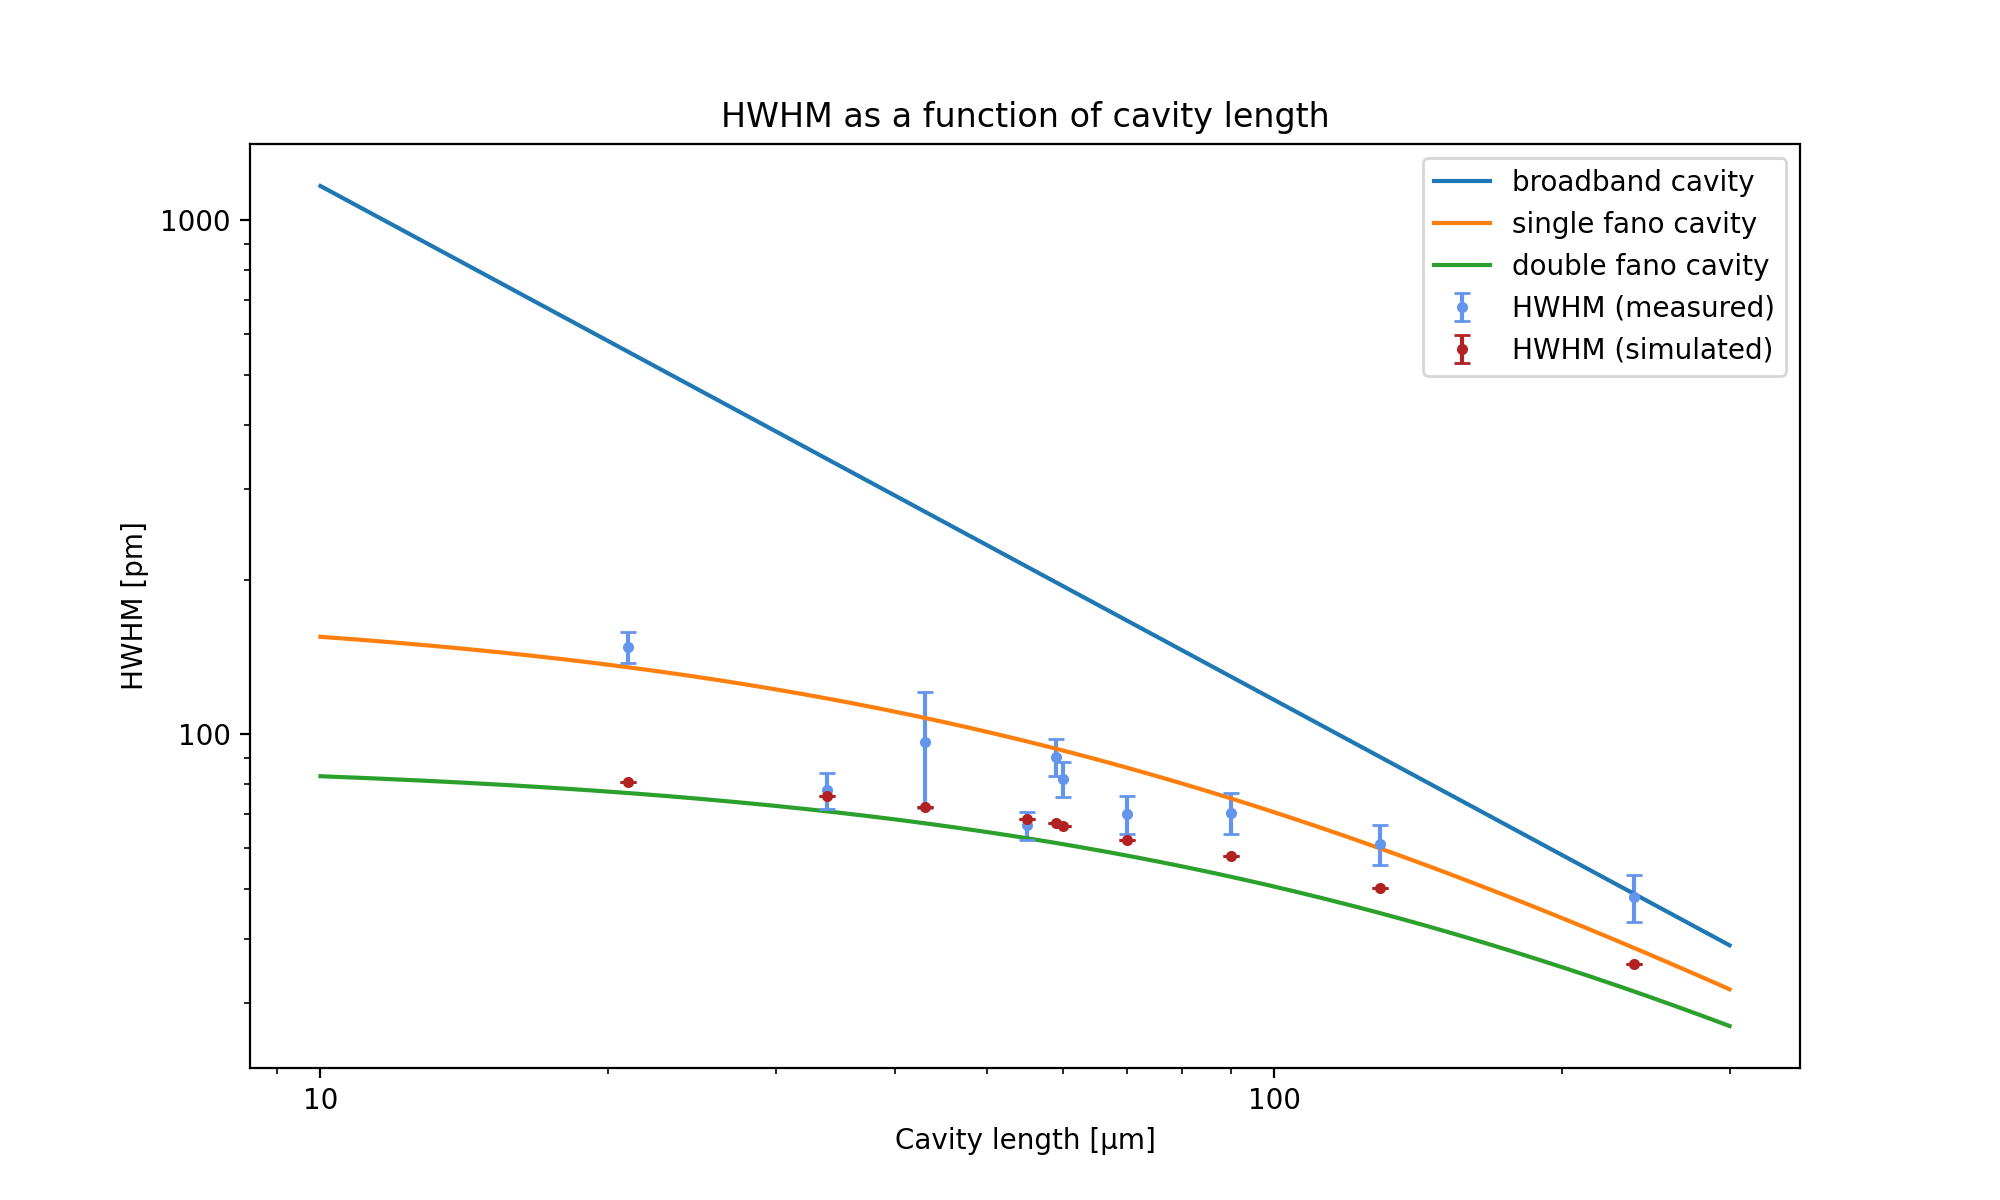
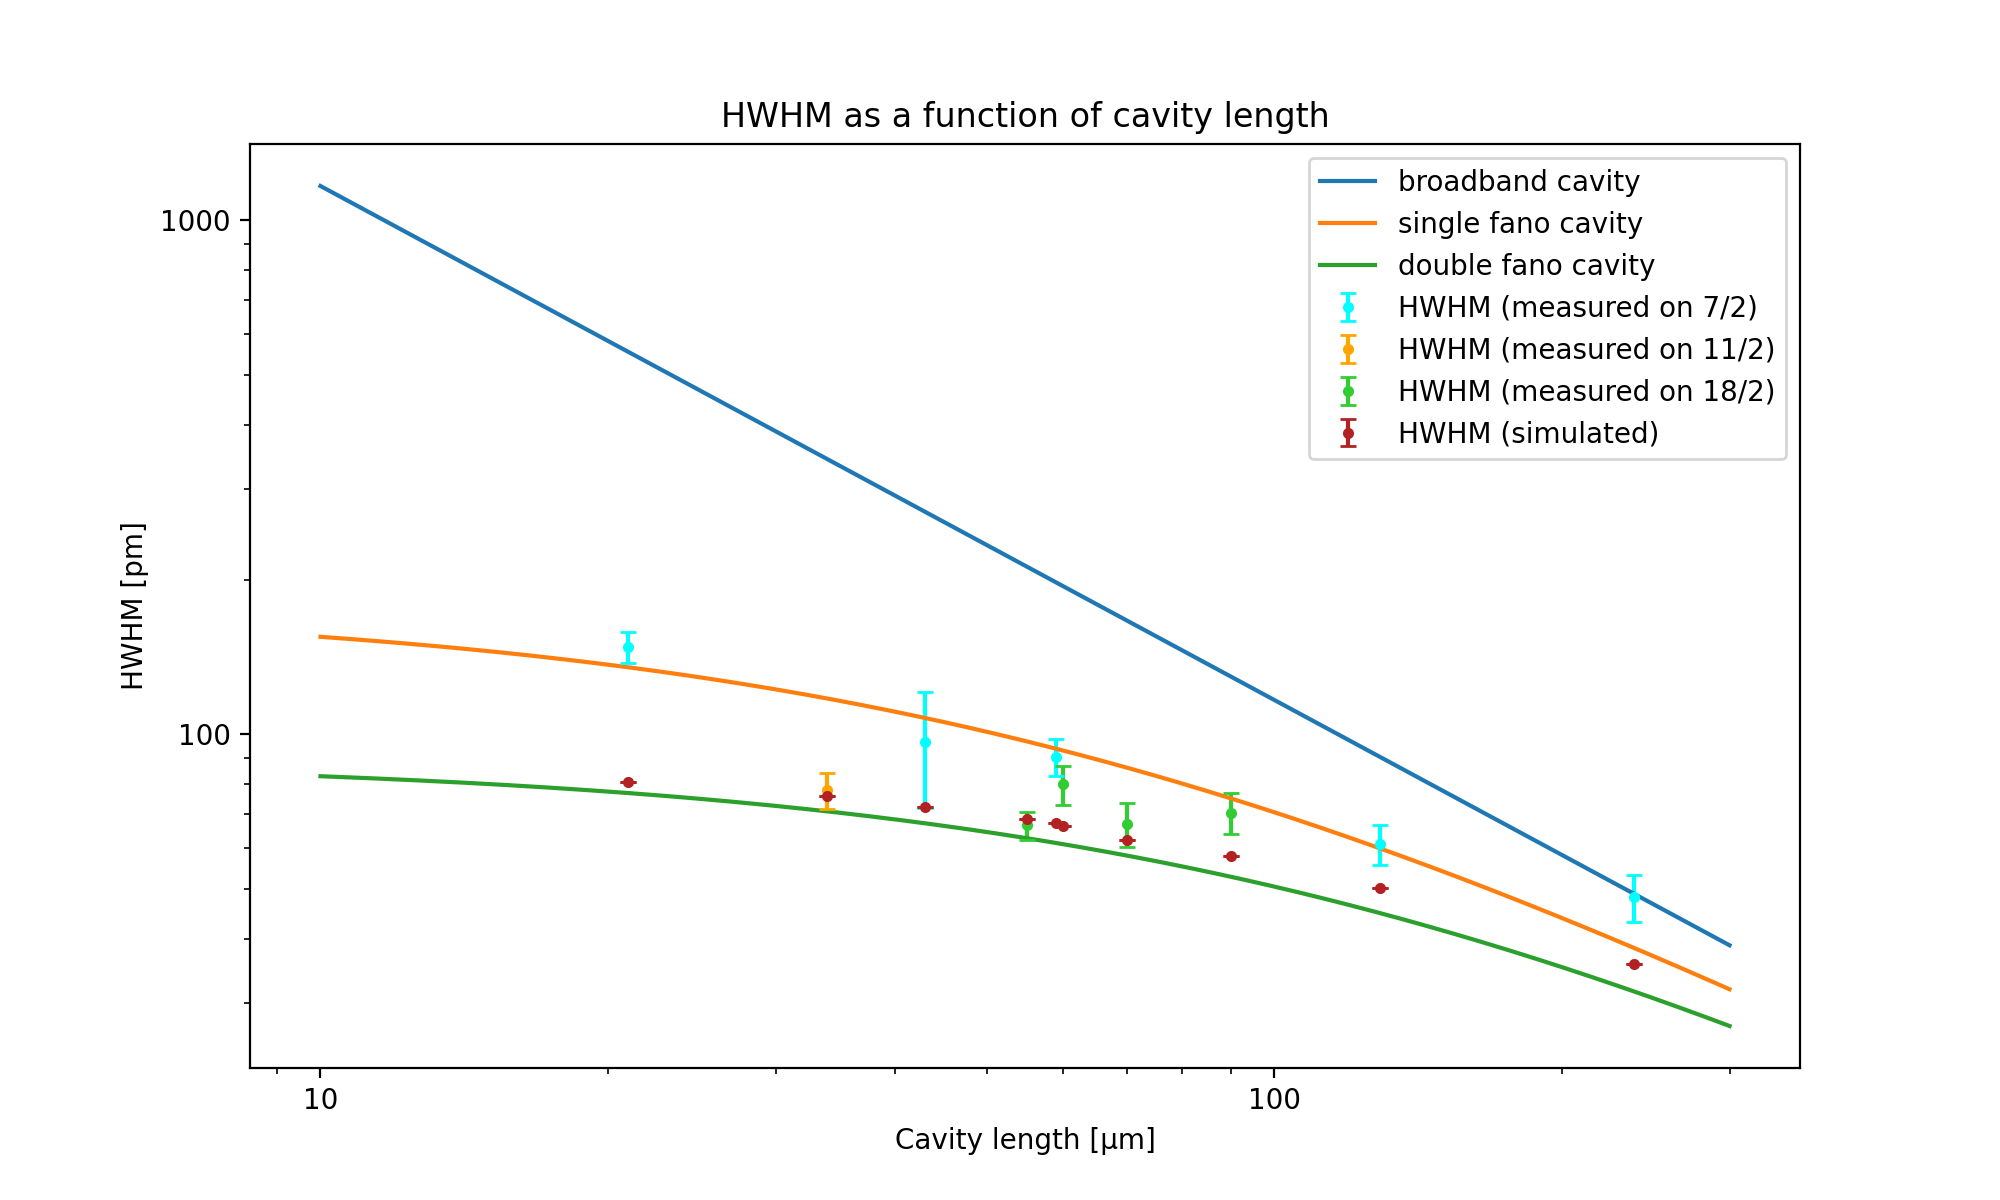
-

diff --git a/cavity_linewidth.py b/cavity_linewidth.py
@@ -52,7 +52,6 @@ M5 = fano("/Users/mikkelodeon/optomechanics/400um gratings/Data/M5/400_M5 trans.
 
 λ_asymmetry_1 = λ1_1-λ0_1
 λ_asymmetry_2 = λ1_2-λ0_2
-#print(λ_asymmetry_1, λ_asymmetry_2)
 λ0_1 = 951.535 
 λ1_1 = 951.535 + λ_asymmetry_1
 λ0_2 = 951.880
@@ -70,8 +69,6 @@ ts_M3 = model(λs, *M3_params)
 ts_M5 = model(λs, *M5_params)
 
 idx = int((list(ts_M3).index(np.min(ts_M3)) + list(ts_M5).index(np.min(ts_M5)))/2)
-#idx = int(list(rs_M3).index(np.max(rs_M3)))
-#idx = int(list(rs_M5).index(np.max(rs_M5)))
 
 rt_M3 = rs_M3[idx]
 rt_M5 = rs_M5[idx]
@@ -81,8 +78,6 @@ print("ref. of M3 at trans. wavelength:   ", rt_M3[0])
 print("ref. of M5 at trans. wavelength:   ", rt_M5[0])
 print("trans. of M3 at trans. wavelength: ", tt_M3)
 print("trans. of M5 at trans. wavelength: ", tt_M5)
-
-#print(idx)
 
 ## resonance wavelength [nm -> m]
 λres = (λ0_1*1e-9 + λ0_2*1e-9)/2 #955.572e-9
@@ -118,23 +113,32 @@ def double_fano(l: int, λres: float, L: float, γλ: float, rd: float, Tg: floa
     δγ = 1/((1/δγc) + (1/δγg)) 
     return δγ 
 
-#lengths = np.array([900])*1e-6 # cavity lengths
-
-#lengths = np.array([21,34,43,59,129,238])*1e-6
-#lengths = np.array([20.1,30.18,40.04,59.08,139,238.9])*1e-6
 #for length in lengths:
 #    linewidth = 2*lw_fano(length,λres,L,γλ,rd,Tg,Tm)
 #    print("length of fano cavity: ", round(length*1e6,1), "μm", " -> ", "theoretical linewidth: ", round(linewidth*1e12,1), "pm")
 
-#lws = np.array([291.28,173.5,187.6,180.4,129.2,96.63])*1e-12*0.5 # linewidths in pm
-
 lengths = np.array([21, 34, 43, 59, 129, 238, 90, 70, 60, 55])*1e-6
-lws = np.array([148.169, 77.852, 96.458, 90.403, 61.248, 48.223, 70.428, 69.92, 81.909, 66.54])*1e-12
-lw_errs = np.array([10.160799928638458, 6.134863876528573, 24.388186270739908, 7.375280567851888, 5.511886232010013, 5.047405715383159, 6.409594508045273, 5.922830232552448, 6.458829009778409, 4.154976118278984])*1e-12
+lws = np.array([148.169, 77.852, 96.458, 90.403, 61.248, 48.223, 70.428, 66.956, 79.968, 66.54])*1e-12
+lw_errs = np.array([10.160799928638458, 6.134863876528573, 24.388186270739908, 7.375280567851888, 5.511886232010013, 
+                    5.047405715383159, 6.409594508045273, 6.4623500579952555, 7.026351242285626, 4.154976118278984])*1e-12
+
+ls_0207 = np.array([21, 43, 59, 129, 238])*1e-6
+ls_0211 = np.array([34])*1e-6
+ls_0218 = np.array([90, 70, 60, 55])*1e-6
+
+lws_0207 = np.array([148.169, 96.458, 90.403, 61.248, 48.223])*1e-12
+lws_0211 = np.array([77.852])*1e-12
+lws_0218 = np.array([70.428, 66.956, 79.968, 66.54])*1e-12
+
+err_0207 = np.array([10.160799928638458, 24.388186270739908, 7.375280567851888, 5.511886232010013, 5.047405715383159])*1e-12
+err_0211 = np.array([6.134863876528573])*1e-12
+err_0218 = np.array([6.409594508045273, 6.4623500579952555, 7.026351242285626, 4.154976118278984])*1e-12
 
 sim_ls = np.array([21, 34, 43, 59, 129, 238, 90, 70, 60, 55])*1e-6
 sim_lws = np.array([80.911, 75.736, 72.39, 67.117, 50.241, 35.681, 58.109, 62.402, 66.374, 68.336])*1e-12
-sim_lw_errs = np.array([0.0005121934467886775, 0.0004377799130283023, 0.0003946381293104754, 0.0003333141561310218, 0.00017926167187670345, 8.649780122407183e-05, 0.0002440424421446865, 0.00029433476802095433, 0.00032524791728291556, 0.000346816907429512])*1e-12
+sim_lw_errs = np.array([0.0005121934467886775, 0.0004377799130283023, 0.0003946381293104754, 0.0003333141561310218, 
+                        0.00017926167187670345, 8.649780122407183e-05, 0.0002440424421446865, 0.00029433476802095433, 
+                        0.00032524791728291556, 0.000346816907429512])*1e-12
 
 ### NOTE: all errors are found as errors of the fit only! ###
 
@@ -144,7 +148,11 @@ plt.plot(l*1e6,lw_mirror(l,λres,L,Tg,Tm)*1e12, label="broadband cavity")
 #plt.plot(l*1e6, double_fano(l,λres,L,γλ,rd,Tg,Tm)*1e12, label="symmetric double fano")
 plt.plot(l*1e6,lw_fano(l,λres,L,γλ,rd,Tg,Tm)*1e12, label="single fano cavity")
 plt.plot(l*1e6,double_fano(l,λres,L,γλ,rd,Tg,Tm)*1e12, label="double fano cavity")
-plt.errorbar(lengths*1e6,lws*1e12, lw_errs*1e12, fmt=".", capsize=3, color="cornflowerblue", label="HWHM (measured)")
+#plt.errorbar(lengths*1e6,lws*1e12, lw_errs*1e12, fmt=".", capsize=3, color="cornflowerblue", label="HWHM (measured)")
+plt.errorbar(ls_0207*1e6,lws_0207*1e12, err_0207*1e12, fmt=".", capsize=3, color="cyan", label="HWHM (measured on 7/2)")
+plt.errorbar(ls_0211*1e6,lws_0211*1e12, err_0211*1e12, fmt=".", capsize=3, color="orange", label="HWHM (measured on 11/2)")
+plt.errorbar(ls_0218*1e6,lws_0218*1e12, err_0218*1e12, fmt=".", capsize=3, color="limegreen", label="HWHM (measured on 18/2)")
+
 plt.errorbar(sim_ls*1e6, sim_lws*1e12, sim_lw_errs*1e12, fmt=".", capsize=3, color="firebrick", label="HWHM (simulated)")
 #plt.plot(λs, rs_M3, "ro")
 #plt.plot(λs, rs_M5, "bo")

diff --git a/fano_fit.py b/fano_fit.py
@@ -6,10 +6,10 @@ from scipy.optimize import fsolve
 
 ### Load data from .txt file
 
-data = np.loadtxt("/Users/mikkelodeon/optomechanics/Double fano cavity/M3+M5/data/20250218/55um/55s.txt")#[12:-14]
-PI_data = np.loadtxt("/Users/mikkelodeon/optomechanics/Double fano cavity/M3+M5/data/20250218/55um/55s_PI.txt")#[12:-14]
-norm = np.loadtxt("/Users/mikkelodeon/optomechanics/Double fano cavity/M3+M5/data/20250218/normalization/short_scan.txt")#[12:-14]
-norm_PI = np.loadtxt("/Users/mikkelodeon/optomechanics/Double fano cavity/M3+M5/data/20250218/normalization/short_scan_PI.txt")#[12:-14]
+data = np.loadtxt("/Users/mikkelodeon/optomechanics/Double fano cavity/M3+M5/data/20250218/70um/70s.txt")[12:-13]
+PI_data = np.loadtxt("/Users/mikkelodeon/optomechanics/Double fano cavity/M3+M5/data/20250218/70um/70s_PI.txt")[12:-13]
+norm = np.loadtxt("/Users/mikkelodeon/optomechanics/Double fano cavity/M3+M5/data/20250218/normalization/short_scan.txt")[12:-13]
+norm_PI = np.loadtxt("/Users/mikkelodeon/optomechanics/Double fano cavity/M3+M5/data/20250218/normalization/short_scan_PI.txt")[12:-13]
 
 #PI_0 = PI_data[0,1]
 #PI_0_norm = norm[0,1]
@@ -108,14 +108,14 @@ def double_fano(λs , λ0_1, λ1_1, td_1, γ_1, α_1, λ0_2, λ1_2, td_2, γ_2, 
 
 ### Fitting loaded data to the double fano transmission function
 
-p0 = [λ0_1, λ1_1, td_1, γ_1, α_1, λ0_2, λ1_2, td_2, γ_2, α_2, 60e3, 0.05]
+#p0 = [λ0_1, λ1_1, td_1, γ_1, α_1, λ0_2, λ1_2, td_2, γ_2, α_2, 55e3, 0.05]
 #p0 = [951.7,951.7,0.8,0.01,1e-5,0.04]
-#p0 = [1, 0.1, 0, 951.7, 100e-3]
-#bounds = [[0, 0, -np.inf, 0, 0],[np.inf, np.inf, np.inf, np.inf, np.inf]]
+p0 = [1, 0.1, 0, 951.7, 100e-3]
+bounds = [[0, 0, -np.inf, 0, 0],[np.inf, np.inf, np.inf, np.inf, np.inf]]
 
-popt,pcov = curve_fit(double_fano, data[:,0], data[:,1], p0=p0, maxfev=10000000)
-#popt,pcov = curve_fit(fit_model, data[:,0], data[:,1], p0=p0, bounds=bounds, maxfev=100000)
-fit_params = [popt[0], popt[1], popt[5], popt[6], popt[10]*1e-3]
+#popt,pcov = curve_fit(double_fano, data[:,0], data[:,1], p0=p0, maxfev=10000000)
+popt,pcov = curve_fit(fit_model, data[:,0], data[:,1], p0=p0, bounds=bounds, maxfev=100000)
+#fit_params = [popt[0], popt[1], popt[5], popt[6], popt[10]*1e-3]
 lw_err = np.sqrt(np.diag(pcov))[4]*1e3
 print("lw error: ", lw_err)
 print("popt:",popt)
@@ -125,8 +125,8 @@ xs = np.linspace(data[:,0][0], data[:,0][-1], 10000)
 
 plt.figure(figsize=(10,6))
 plt.scatter(data[:,0], data[:,1], color="royalblue", label="data", zorder=1)
-plt.plot(xs, double_fano(xs, *popt), color="firebrick", label="fit: $λ_{0,M5}=$%5.3fnm, $λ_{1,M5}=$%5.3fnm, $λ_{0,M3}=$%5.3fnm, $λ_{1,M3}=$%5.3fnm, $l_{c}$=%5.3fμm" % tuple(fit_params))
-#plt.plot(xs, fit_model(xs, *popt), color="firebrick", label="fit: HWHM $\\approx$ %spm" % str(round(np.abs(popt[4])*1e3,3)))
+#plt.plot(xs, double_fano(xs, *popt), color="firebrick", label="fit: $λ_{0,M5}=$%5.3fnm, $λ_{1,M5}=$%5.3fnm, $λ_{0,M3}=$%5.3fnm, $λ_{1,M3}=$%5.3fnm, $l_{c}$=%5.3fμm" % tuple(fit_params))
+plt.plot(xs, fit_model(xs, *popt), color="firebrick", label="fit: HWHM $\\approx$ %spm" % str(round(np.abs(popt[4])*1e3,3)))
 plt.title("M3/M5 double fano transmission")  
 plt.xlabel("wavelength [nm]")
 plt.ylabel("normalized transmission [V]")

diff --git a/fano_theory.py b/fano_theory.py
@@ -858,7 +858,7 @@ def linewidth_length_plot(params1: list, params2: list, λs: np.array, intracavi
 #length_mid = (double_cavity_length(params1, params2, λs, lmin=lmin)*0.5 + double_cavity_length(params2, params1, λs, lmin=lmin)*0.5)
 #Ts_mid = dual_fano_transmission(params1, params2, length_mid, λs, loss_factor=0.05)
 
-lmin = 55
+lmin = 61
 length = (double_cavity_length(params1, params2, λs, lmin=lmin)*0.5 + double_cavity_length(params2, params1, λs, lmin=lmin)*0.5)
 Ts = dual_fano_transmission(params1, params2, length, λs, loss_factor=0.05)
 
